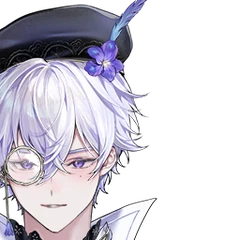
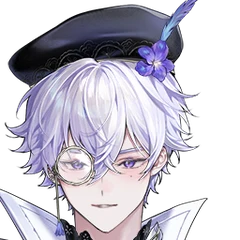
Fix VinXIII face crop
Claude-Session: https://claude.ai/code/session_0182ETGqkY6VZC2ACV9rE9Mb

diff --git a/index.html b/index.html
@@ -945,16 +945,16 @@ var TYPES = { All:['ทั้งหมด','All'], VTuber:['VTuber','VTuber'], K
 var TALENTS = [
   { id:'hanami', name:'Hanami Lay', short:'Hanami', ini:'HL', type:'VTuber', aff:'indie', langs:['th'], color:'#FFFFFF', img:'talent-hanami.jpg', face:'talent-hanami-face.jpg', card:'talent-hanami-half.jpg', halves:['talent-hanami-half.jpg'], tags:['#Gaming','#Karaoke','#Drawing','#Chitchat','#Cooking','#HandCam'], works:['promo','review','dub','collab'], links:[['YouTube',70200,'https://www.youtube.com/@HanamiLayCH'],['TikTok',89800,'https://www.tiktok.com/@hanamilay'],['Facebook',29000,'https://www.facebook.com/profile.php?id=61552160366840'],['X',5931,'https://x.com/HanamiLay']], quote:['วีทูปเบอร์ที่สามารถไลฟ์เล่นเกมได้ 24 ชั่วโมงแบบไม่ยอมแพ้ พร้อมอยู่กับคุณตั้งแต่ตอนบอกฝันดีจนตื่นมาอรุณสวัสดิ์','A VTuber who can stream games for 24 hours straight without giving up, here with you from good night all the way to good morning.'] },
   { id:'justpark', name:['Justpark Channel (จีน)','Justpark Channel (Jeen)'], short:'Justpark', ini:'JP', type:'KOL', aff:{name:'GaconX', logo:'logos/gaconx-mark.png'}, langs:['th'], color:'#FFFFFF', img:'talent-justpark.jpg', face:'talent-justpark-face.jpg', tags:['#Gaming'], works:['review'], links:[['YouTube',591000,'https://www.youtube.com/@justparkchannel1419'],['TikTok',13600,'https://www.tiktok.com/@justparkchannel'],['Facebook',34000,'https://www.facebook.com/JeenJustpark'],['Instagram',314,'https://www.instagram.com/justpark_channel/']], quote:['ช่องรีวิวเกมที่ลงคลิปทุกวัน...... ที่ทำเสร็จ','A game review channel with a new clip every day...... that gets finished.'] },
-  { id:'zona', halves:['talent-zona-half.webp'], card:'talent-zona-half.webp', img:'talent-zona.webp', face:'talent-zona-face.webp?v=6',  name:'ZONA', short:'ZONA', ini:'ZN', type:'VTuber', aff:{name:'Polygon', logo:'logos/polygon-mark.png'}, langs:['th','en','jp'], color:'#CFE6FF', tags:['#Singing','#FreeTalk','#Gaming'], works:['promo','review','cover','collab','dub'], links:[['YouTube',172662,'https://www.youtube.com/c/ZonaCh'],['TikTok',63715,'https://www.tiktok.com/@zonaplg'],['Facebook',35123,'https://www.facebook.com/ZONAPolygon'],['X',53983,'http://twitter.com/ZonaPLG']], quote:['โซน่า ออก้าแห่งท้องทะเลผู้รักในเสียงเพลงและเท่(ซน)มาก','Zona, the music-loving orca of the sea. Super cool (and super cheeky).'] },
-  { id:'hoku', halves:['talent-hoku-half.webp'], card:'talent-hoku-half.webp', img:'talent-hoku.webp?v=3', face:'talent-hoku-face.webp?v=6',  name:'Hoku', short:'Hoku', ini:'HK', type:'VTuber', aff:{name:'Polygon', logo:'logos/polygon-mark.png'}, langs:['th','en'], color:'#E9DFC8', tags:['#Singing','#FreeTalk','#Gaming','#Horror'], works:['promo','review','cover','collab','dub'], links:[['YouTube',119655,'https://www.youtube.com/@HokuPLG'],['TikTok',35000,'https://www.tiktok.com/@hokuplg'],['Facebook',23440,'http://facebook.com/HokuPolygon'],['X',32083,'http://twitter.com/HokuPLG']], quote:['โฮคุ นกฮูกเปี่ยมไมตรีที่ชอบเรื่องผีและหาทำ','Hoku, a friendly owl who loves ghost stories and always finds something to get into.'] },
-  { id:'lucene', halves:['talent-lucene-half.webp'], card:'talent-lucene-half.webp', img:'talent-lucene.webp', face:'talent-lucene-face.webp?v=6',  name:'Lucene', short:'Lucene', ini:'LC', type:'VTuber', aff:{name:'Polygon', logo:'logos/polygon-mark.png'}, langs:['th','en'], color:'#FDE2EE', tags:['#Singing','#FreeTalk','#Gaming','#Gacha'], works:['promo','review','cover','collab','dub'], links:[['YouTube',83400,'https://www.youtube.com/@LucenePLG'],['TikTok',24071,'https://www.tiktok.com/@plglucene'],['Facebook',20102,'https://www.facebook.com/LucenePolygon'],['X',19508,'https://x.com/LucenePLG']], quote:['ลูเซเน่ กระต่ายอนิเมะผู้เสกความสดใสและชอบเสี่ยงดวง💸','Lucene, an anime bunny who conjures up cheer and loves to try her luck 💸'] },
-  { id:'lapine', halves:['talent-lapine-half.webp'], card:'talent-lapine-half.webp', img:'talent-lapine.webp', face:'talent-lapine-face.webp?v=6',  name:'Lapine', short:'Lapine', ini:'LP', type:'VTuber', aff:{name:'Polygon', logo:'logos/polygon-mark.png'}, langs:['th','en'], color:'#FFD9E4', tags:['#Singing','#FreeTalk','#Gaming'], works:['promo','review','cover','collab','dub'], links:[['YouTube',69355,'https://www.youtube.com/@LapinePLG'],['TikTok',8885,'https://www.tiktok.com/@lapineplg'],['Facebook',16150,'https://www.facebook.com/LapinePolygon'],['X',20482,'https://x.com/LapinePLG']], quote:['ลาพิเน่ กระต่ายสีชมพูที่คุณดูแล้วต้องกำหมัด','Lapine, the pink bunny so cute you will clench your fists.'] },
-  { id:'luxia', halves:['talent-luxia-half.webp'], card:'talent-luxia-half.webp', img:'talent-luxia.webp?v=3', face:'talent-luxia-face.webp?v=6',  name:'Luxia', short:'Luxia', ini:'LX', type:'VTuber', aff:{name:'Polygon', logo:'logos/polygon-mark.png'}, langs:['th'], color:'#E7E1F7', tags:['#Singing','#FreeTalk','#Gaming','#Drawing'], works:['promo','review','collab','dub'], links:[['YouTube',57079,'https://www.youtube.com/@LuxiaPLG'],['TikTok',15700,'https://www.tiktok.com/@luxiaplg'],['Facebook',12455,'https://www.facebook.com/LuxiaPolygon'],['X',16481,'https://x.com/LuxiaPLG']], quote:['ลูเซีย แม่ชีนักวาดผู้ไม่อาจหยุดความวายป่วง','Luxia, an artist nun who simply cannot stop the chaos.'] },
-  { id:'riona', halves:['talent-riona-half.webp','talent-riona-2-half.webp'], card:'talent-riona-half.webp', img:'talent-riona.webp', face:'talent-riona-face.webp?v=6', forms:['talent-riona.webp','talent-riona-2.webp'],  name:'Riona', short:'Riona', ini:'RN', type:'VTuber', aff:{name:'Polygon', logo:'logos/polygon-mark.png'}, langs:['th','en'], color:'#FFE7C7', tags:['#Singing','#FreeTalk','#Gaming','#RolePlay'], works:['promo','review','collab','dub'], links:[['YouTube',16208,'https://www.youtube.com/@RionaPLG'],['TikTok',4081,'https://www.tiktok.com/@rionaplg'],['Facebook',10980,'https://www.facebook.com/RionaPolygon'],['X',4583,'https://x.com/RionaPLG']], quote:['เสือ สวย รวย และน่าน้วยก็ได้ ประธานนักเรียนรุ่นที่ 10 โรงเรียน PLG ริโอน่า สวัสดีค่ะ','A tiger: pretty, rich, and cuddly if you like. Hello, I am Riona, 10th student council president of PLG School!'] },
-  { id:'anya', halves:['talent-anya-half.webp','talent-anya-2-half.webp'], card:'talent-anya-half.webp', img:'talent-anya.webp?v=2', face:'talent-anya-face.webp?v=6', forms:['talent-anya.webp?v=2','talent-anya-2.webp'],  name:'Anya', short:'Anya', ini:'AY', type:'VTuber', aff:{name:'Polygon', logo:'logos/polygon-mark.png'}, langs:['th'], color:'#DCEFE3', tags:['#Singing','#FreeTalk','#Gaming','#HandCam'], works:['promo','review','collab','dub'], links:[['YouTube',19635,'https://www.youtube.com/@AnyaPLG'],['TikTok',8095,'https://www.tiktok.com/@anyaplg'],['Facebook',7139,'https://www.facebook.com/AnyaPolygon'],['X',4071,'https://x.com/AnyaPLG']], quote:['ลึกแต่ไม่ลับ คับแต่ไม่แคบ ไม่ใช่แค่ช้าง แต่เป็นแมมมอธ แฮ่ !','Deep but no secrets, packed but never cramped. Not just an elephant, a mammoth. Rawr!'] },
-  { id:'monace', halves:['talent-monace-half.webp'], card:'talent-monace-half.webp', img:'talent-monace.webp', face:'talent-monace-face.webp?v=6',  name:'Monace', short:'Monace', ini:'MN', type:'VTuber', aff:{name:'Polygon', logo:'logos/polygon-mark.png'}, langs:['th','en'], color:'#D9E4F5', tags:['#Singing','#FreeTalk','#Gaming','#SongComposer'], works:['promo','review','cover','collab','dub'], links:[['YouTube',2608,'https://www.youtube.com/@MONACEPLG'],['TikTok',1735,'https://www.tiktok.com/@monaceplg'],['Facebook',558,'https://www.facebook.com/MONACEPLG'],['X',1477,'https://x.com/MONACEPLG']], quote:['แรปเปอร์ตัวตึงอาจจะดูเท่ แต่ใจดี พร้อมอยู่ข้างๆ ให้คุณรู้สึกสบายใจเสมอ โซโล โมเนซ ครับ 🪽','A rapper who may look tough but has a kind heart, always by your side to put you at ease. Solo Monace here 🪽'] },
-  { id:'vinxiii', halves:['talent-vinxiii-half.webp'], card:'talent-vinxiii-half.webp', img:'talent-vinxiii.webp', face:'talent-vinxiii-face.webp?v=6',  name:'VinXIII', short:'VinXIII', ini:'VX', type:'VTuber', aff:{name:'Polygon', logo:'logos/polygon-mark.png'}, langs:['th'], color:'#F6E7C8', tags:['#Singing','#FreeTalk','#Gaming'], works:['promo','review','cover','collab'], links:[['YouTube',1715,'https://www.youtube.com/@VinXIIIPLG'],['TikTok',1187,'https://www.tiktok.com/@vinxiiiplg'],['Facebook',139,'https://www.facebook.com/VinXIIIPLG'],['X',2175,'https://x.com/VinXIIIPLG']], quote:['ถ้าตามหาคนที่จะทำให้หัวเราะได้ วินซี่ อยู่ตรงนี้เองครับ ที่ไม่ว่าอยู่ที่ไหนก็ทำให้บรรยากาศสดใสขึ้นทันที ⚜','Looking for someone to make you laugh? Vinzy is right here, brightening the room wherever he goes ⚜'] },
-  { id:'augustine', halves:['talent-augustine-half.webp'], card:'talent-augustine-half.webp', img:'talent-augustine.webp', face:'talent-augustine-face.webp?v=6',  name:'Augustine', short:'Augustine', ini:'AG', type:'VTuber', aff:{name:'Polygon', logo:'logos/polygon-mark.png'}, langs:['th','en'], color:'#E3F0FA', tags:['#Singing','#FreeTalk','#Gaming','#Dentist'], works:['promo','review','cover','collab'], links:[['YouTube',10500,'https://www.youtube.com/@AugustinePLG'],['TikTok',37200,'https://www.tiktok.com/@augustineplg'],['Facebook',770,'https://www.facebook.com/AugustinePLG'],['X',4178,'https://x.com/AugustinePLG']], quote:['ออกัสทีนเองครับ มีทั้งความสวย ความหล่อ และพลังบวกที่จะทำให้คุณยิ้มได้ทุกวัน อยากมาลองชิมมั้ยครับ','Augustine here: pretty, handsome and full of good vibes to make you smile every day. Care for a taste?'] },
+  { id:'zona', halves:['talent-zona-half.webp'], card:'talent-zona-half.webp', img:'talent-zona.webp', face:'talent-zona-face.webp?v=7',  name:'ZONA', short:'ZONA', ini:'ZN', type:'VTuber', aff:{name:'Polygon', logo:'logos/polygon-mark.png'}, langs:['th','en','jp'], color:'#CFE6FF', tags:['#Singing','#FreeTalk','#Gaming'], works:['promo','review','cover','collab','dub'], links:[['YouTube',172662,'https://www.youtube.com/c/ZonaCh'],['TikTok',63715,'https://www.tiktok.com/@zonaplg'],['Facebook',35123,'https://www.facebook.com/ZONAPolygon'],['X',53983,'http://twitter.com/ZonaPLG']], quote:['โซน่า ออก้าแห่งท้องทะเลผู้รักในเสียงเพลงและเท่(ซน)มาก','Zona, the music-loving orca of the sea. Super cool (and super cheeky).'] },
+  { id:'hoku', halves:['talent-hoku-half.webp'], card:'talent-hoku-half.webp', img:'talent-hoku.webp?v=3', face:'talent-hoku-face.webp?v=7',  name:'Hoku', short:'Hoku', ini:'HK', type:'VTuber', aff:{name:'Polygon', logo:'logos/polygon-mark.png'}, langs:['th','en'], color:'#E9DFC8', tags:['#Singing','#FreeTalk','#Gaming','#Horror'], works:['promo','review','cover','collab','dub'], links:[['YouTube',119655,'https://www.youtube.com/@HokuPLG'],['TikTok',35000,'https://www.tiktok.com/@hokuplg'],['Facebook',23440,'http://facebook.com/HokuPolygon'],['X',32083,'http://twitter.com/HokuPLG']], quote:['โฮคุ นกฮูกเปี่ยมไมตรีที่ชอบเรื่องผีและหาทำ','Hoku, a friendly owl who loves ghost stories and always finds something to get into.'] },
+  { id:'lucene', halves:['talent-lucene-half.webp'], card:'talent-lucene-half.webp', img:'talent-lucene.webp', face:'talent-lucene-face.webp?v=7',  name:'Lucene', short:'Lucene', ini:'LC', type:'VTuber', aff:{name:'Polygon', logo:'logos/polygon-mark.png'}, langs:['th','en'], color:'#FDE2EE', tags:['#Singing','#FreeTalk','#Gaming','#Gacha'], works:['promo','review','cover','collab','dub'], links:[['YouTube',83400,'https://www.youtube.com/@LucenePLG'],['TikTok',24071,'https://www.tiktok.com/@plglucene'],['Facebook',20102,'https://www.facebook.com/LucenePolygon'],['X',19508,'https://x.com/LucenePLG']], quote:['ลูเซเน่ กระต่ายอนิเมะผู้เสกความสดใสและชอบเสี่ยงดวง💸','Lucene, an anime bunny who conjures up cheer and loves to try her luck 💸'] },
+  { id:'lapine', halves:['talent-lapine-half.webp'], card:'talent-lapine-half.webp', img:'talent-lapine.webp', face:'talent-lapine-face.webp?v=7',  name:'Lapine', short:'Lapine', ini:'LP', type:'VTuber', aff:{name:'Polygon', logo:'logos/polygon-mark.png'}, langs:['th','en'], color:'#FFD9E4', tags:['#Singing','#FreeTalk','#Gaming'], works:['promo','review','cover','collab','dub'], links:[['YouTube',69355,'https://www.youtube.com/@LapinePLG'],['TikTok',8885,'https://www.tiktok.com/@lapineplg'],['Facebook',16150,'https://www.facebook.com/LapinePolygon'],['X',20482,'https://x.com/LapinePLG']], quote:['ลาพิเน่ กระต่ายสีชมพูที่คุณดูแล้วต้องกำหมัด','Lapine, the pink bunny so cute you will clench your fists.'] },
+  { id:'luxia', halves:['talent-luxia-half.webp'], card:'talent-luxia-half.webp', img:'talent-luxia.webp?v=3', face:'talent-luxia-face.webp?v=7',  name:'Luxia', short:'Luxia', ini:'LX', type:'VTuber', aff:{name:'Polygon', logo:'logos/polygon-mark.png'}, langs:['th'], color:'#E7E1F7', tags:['#Singing','#FreeTalk','#Gaming','#Drawing'], works:['promo','review','collab','dub'], links:[['YouTube',57079,'https://www.youtube.com/@LuxiaPLG'],['TikTok',15700,'https://www.tiktok.com/@luxiaplg'],['Facebook',12455,'https://www.facebook.com/LuxiaPolygon'],['X',16481,'https://x.com/LuxiaPLG']], quote:['ลูเซีย แม่ชีนักวาดผู้ไม่อาจหยุดความวายป่วง','Luxia, an artist nun who simply cannot stop the chaos.'] },
+  { id:'riona', halves:['talent-riona-half.webp','talent-riona-2-half.webp'], card:'talent-riona-half.webp', img:'talent-riona.webp', face:'talent-riona-face.webp?v=7', forms:['talent-riona.webp','talent-riona-2.webp'],  name:'Riona', short:'Riona', ini:'RN', type:'VTuber', aff:{name:'Polygon', logo:'logos/polygon-mark.png'}, langs:['th','en'], color:'#FFE7C7', tags:['#Singing','#FreeTalk','#Gaming','#RolePlay'], works:['promo','review','collab','dub'], links:[['YouTube',16208,'https://www.youtube.com/@RionaPLG'],['TikTok',4081,'https://www.tiktok.com/@rionaplg'],['Facebook',10980,'https://www.facebook.com/RionaPolygon'],['X',4583,'https://x.com/RionaPLG']], quote:['เสือ สวย รวย และน่าน้วยก็ได้ ประธานนักเรียนรุ่นที่ 10 โรงเรียน PLG ริโอน่า สวัสดีค่ะ','A tiger: pretty, rich, and cuddly if you like. Hello, I am Riona, 10th student council president of PLG School!'] },
+  { id:'anya', halves:['talent-anya-half.webp','talent-anya-2-half.webp'], card:'talent-anya-half.webp', img:'talent-anya.webp?v=2', face:'talent-anya-face.webp?v=7', forms:['talent-anya.webp?v=2','talent-anya-2.webp'],  name:'Anya', short:'Anya', ini:'AY', type:'VTuber', aff:{name:'Polygon', logo:'logos/polygon-mark.png'}, langs:['th'], color:'#DCEFE3', tags:['#Singing','#FreeTalk','#Gaming','#HandCam'], works:['promo','review','collab','dub'], links:[['YouTube',19635,'https://www.youtube.com/@AnyaPLG'],['TikTok',8095,'https://www.tiktok.com/@anyaplg'],['Facebook',7139,'https://www.facebook.com/AnyaPolygon'],['X',4071,'https://x.com/AnyaPLG']], quote:['ลึกแต่ไม่ลับ คับแต่ไม่แคบ ไม่ใช่แค่ช้าง แต่เป็นแมมมอธ แฮ่ !','Deep but no secrets, packed but never cramped. Not just an elephant, a mammoth. Rawr!'] },
+  { id:'monace', halves:['talent-monace-half.webp'], card:'talent-monace-half.webp', img:'talent-monace.webp', face:'talent-monace-face.webp?v=7',  name:'Monace', short:'Monace', ini:'MN', type:'VTuber', aff:{name:'Polygon', logo:'logos/polygon-mark.png'}, langs:['th','en'], color:'#D9E4F5', tags:['#Singing','#FreeTalk','#Gaming','#SongComposer'], works:['promo','review','cover','collab','dub'], links:[['YouTube',2608,'https://www.youtube.com/@MONACEPLG'],['TikTok',1735,'https://www.tiktok.com/@monaceplg'],['Facebook',558,'https://www.facebook.com/MONACEPLG'],['X',1477,'https://x.com/MONACEPLG']], quote:['แรปเปอร์ตัวตึงอาจจะดูเท่ แต่ใจดี พร้อมอยู่ข้างๆ ให้คุณรู้สึกสบายใจเสมอ โซโล โมเนซ ครับ 🪽','A rapper who may look tough but has a kind heart, always by your side to put you at ease. Solo Monace here 🪽'] },
+  { id:'vinxiii', halves:['talent-vinxiii-half.webp'], card:'talent-vinxiii-half.webp', img:'talent-vinxiii.webp', face:'talent-vinxiii-face.webp?v=7',  name:'VinXIII', short:'VinXIII', ini:'VX', type:'VTuber', aff:{name:'Polygon', logo:'logos/polygon-mark.png'}, langs:['th'], color:'#F6E7C8', tags:['#Singing','#FreeTalk','#Gaming'], works:['promo','review','cover','collab'], links:[['YouTube',1715,'https://www.youtube.com/@VinXIIIPLG'],['TikTok',1187,'https://www.tiktok.com/@vinxiiiplg'],['Facebook',139,'https://www.facebook.com/VinXIIIPLG'],['X',2175,'https://x.com/VinXIIIPLG']], quote:['ถ้าตามหาคนที่จะทำให้หัวเราะได้ วินซี่ อยู่ตรงนี้เองครับ ที่ไม่ว่าอยู่ที่ไหนก็ทำให้บรรยากาศสดใสขึ้นทันที ⚜','Looking for someone to make you laugh? Vinzy is right here, brightening the room wherever he goes ⚜'] },
+  { id:'augustine', halves:['talent-augustine-half.webp'], card:'talent-augustine-half.webp', img:'talent-augustine.webp', face:'talent-augustine-face.webp?v=7',  name:'Augustine', short:'Augustine', ini:'AG', type:'VTuber', aff:{name:'Polygon', logo:'logos/polygon-mark.png'}, langs:['th','en'], color:'#E3F0FA', tags:['#Singing','#FreeTalk','#Gaming','#Dentist'], works:['promo','review','cover','collab'], links:[['YouTube',10500,'https://www.youtube.com/@AugustinePLG'],['TikTok',37200,'https://www.tiktok.com/@augustineplg'],['Facebook',770,'https://www.facebook.com/AugustinePLG'],['X',4178,'https://x.com/AugustinePLG']], quote:['ออกัสทีนเองครับ มีทั้งความสวย ความหล่อ และพลังบวกที่จะทำให้คุณยิ้มได้ทุกวัน อยากมาลองชิมมั้ยครับ','Augustine here: pretty, handsome and full of good vibes to make you smile every day. Care for a taste?'] },
 ];
 var ART = [
   { label:['สติกเกอร์ LINE','LINE Sticker'], icon:'sticker', bg:'#FFF0C9', desc:['สติกเกอร์ไลน์ทั้งแบบนิ่งและแบบเคลื่อนไหว','Static and animated LINE stickers.'], kw:'สติกเกอร์ สติ๊กเกอร์ ไลน์ sticker' },
